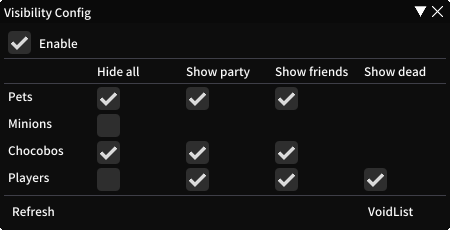
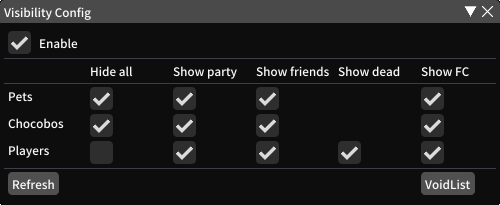
Update README.md and associated image files

diff --git a/README.md b/README.md
@@ -1,12 +1,12 @@
 # VisibilityPlugin
-This plugin controls the visibility of players, pets, minions and chocobos.
+This plugin controls the visibility of players, pets and chocobos.
 
 ## About
 Visibility lets you hide those pesky players and their chocobos in hunts and major towns to reduce framerate drops and just give better quality of life.
 It also comes with VoidList, which is a better blacklist.
 
 It provides:
-* Ability to hide players, pets, minions and chocobos.
+* Ability to hide players, pets and chocobos.
 * Ability to filter hidden players by party, friends and dead.
 * Ability to filter chocobos and pets by party and friends.
 
@@ -22,6 +22,5 @@ It provides:
 	* You can manually add players to the voidlist via `/void firstname lastname worldname reason`
 	* You can manually add targeted players to the voidlist via `/voidtarget reason`
 
-
 ## Known Issues
-* Can not filter minions by friends or party members
+* Own player might disapper. If that happens, use the `Refresh` functionality.
